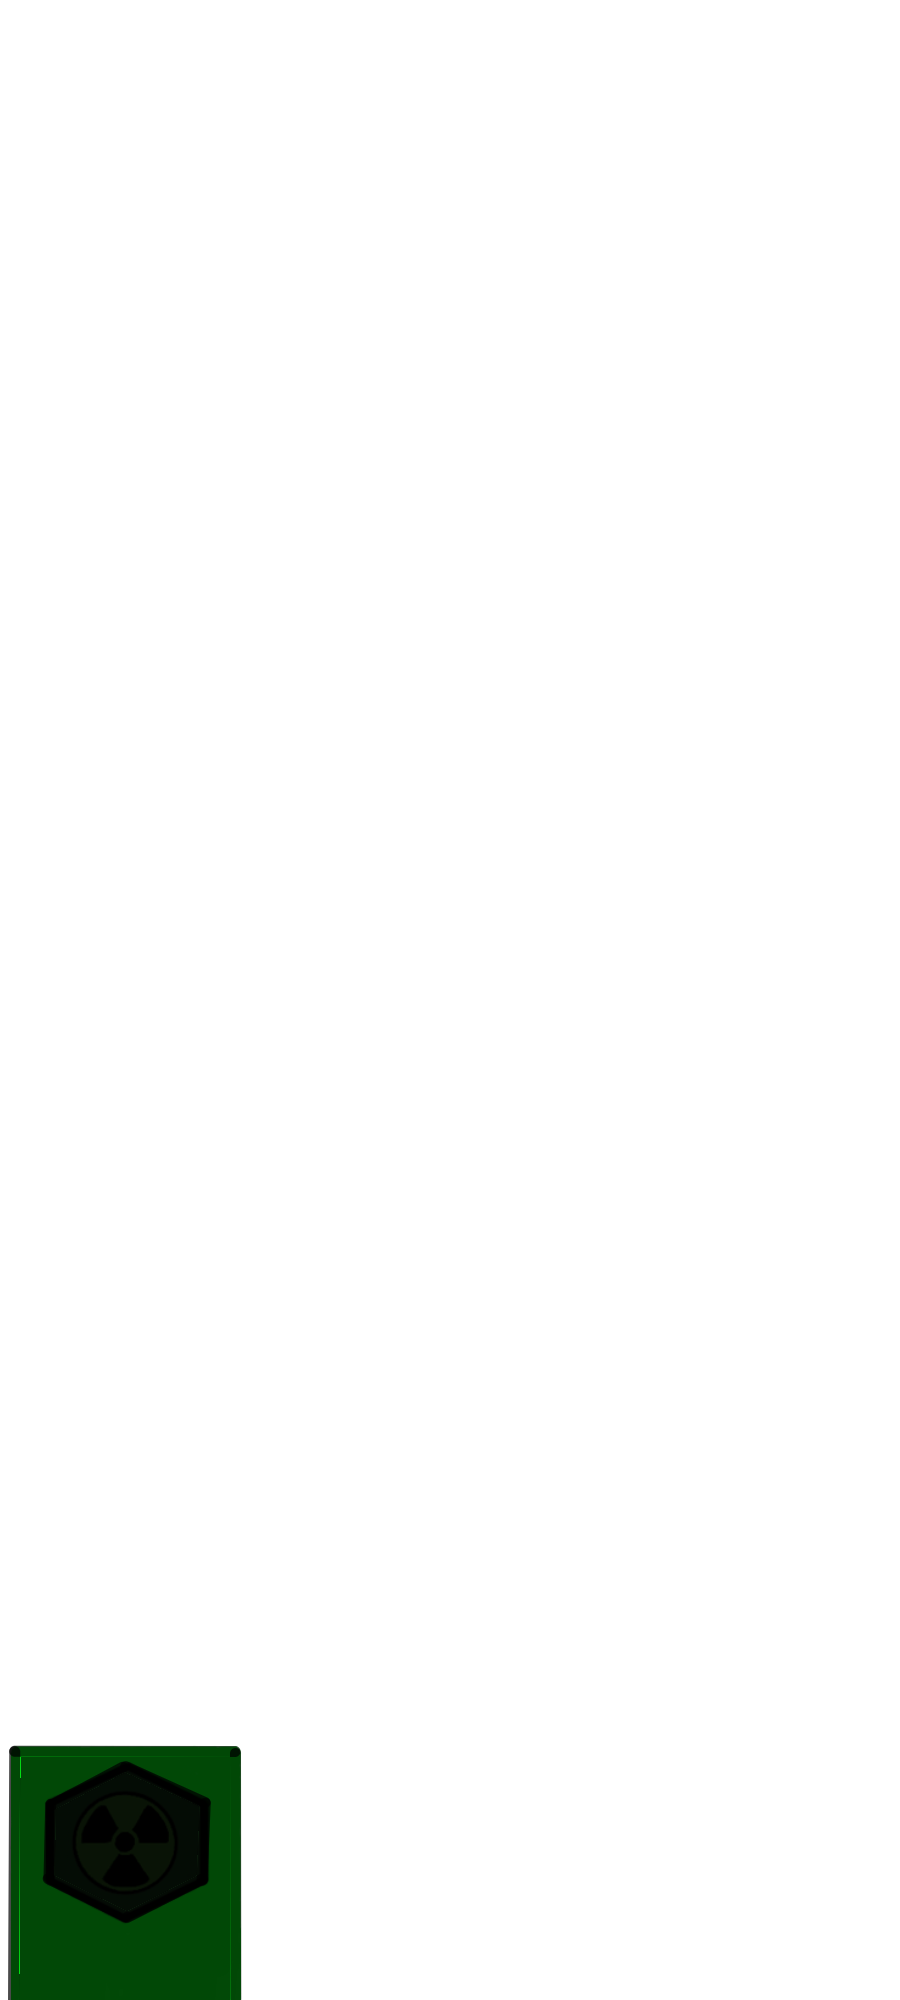
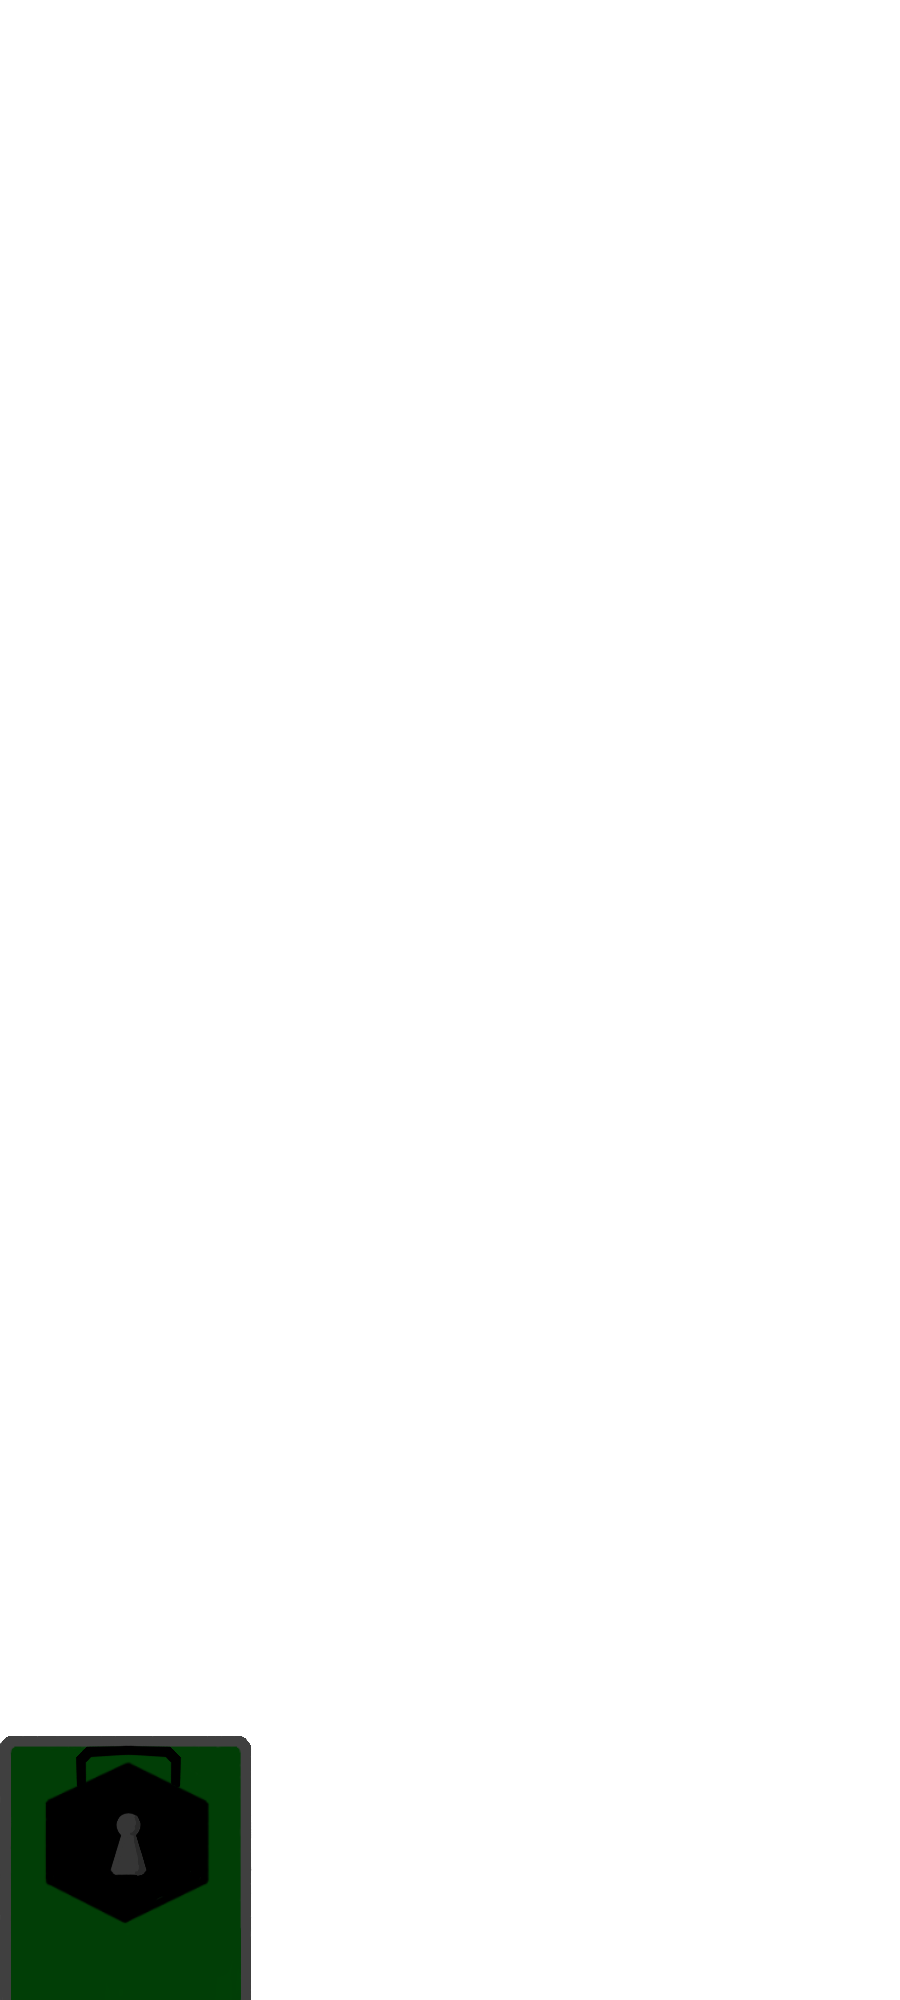
feat : bottomUi - mise en place des nouveau design pour les lockeds

Changed region(s): [[0.0, 0.868, 0.28, 1.0]]

diff --git a/Assets/Scripts/meteorBoss.cs b/Assets/Scripts/meteorBoss.cs
@@ -113,7 +113,7 @@ public class meteorBoss : spaceObject
 
     private void setTimerLimit()
     {
-        float[] limits = { 5f, 4f, ATTACK_TIMER_LIMITE*3 };
+        float[] limits = { 2f, 2f, ATTACK_TIMER_LIMITE*3 };
         statutTimerLimit = limits[(int)statut];  
     }
 
